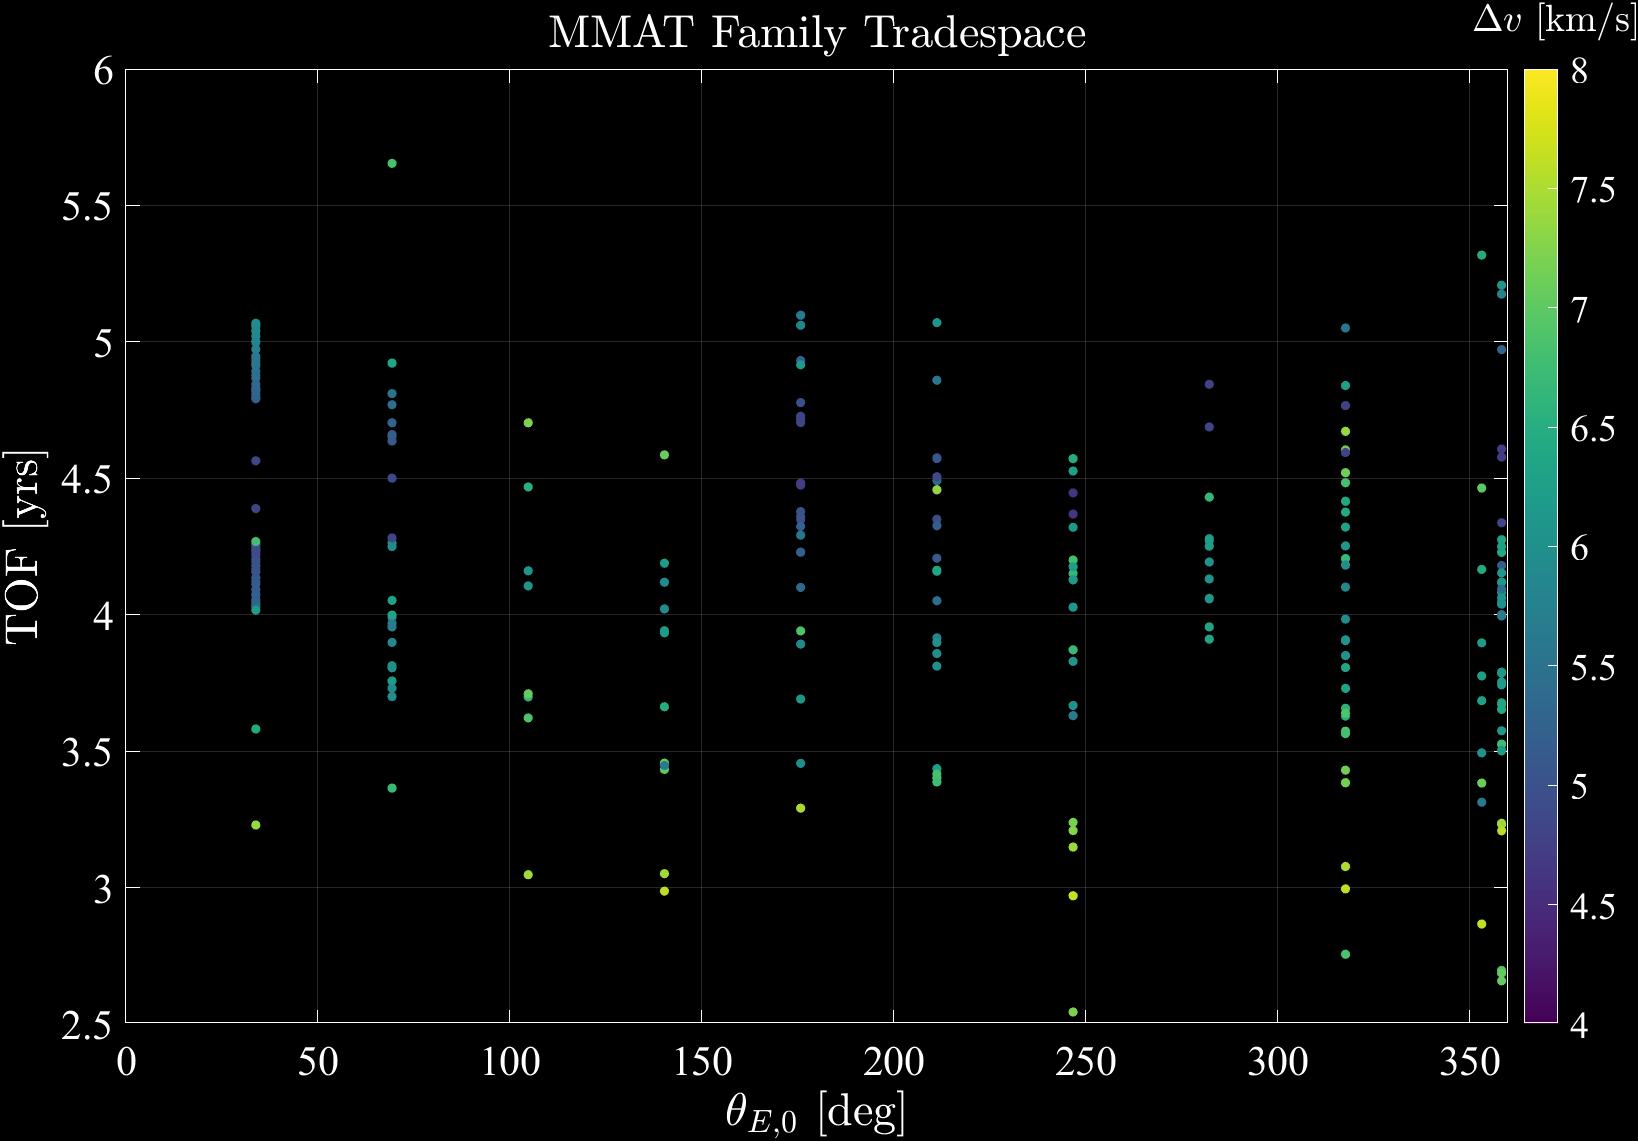
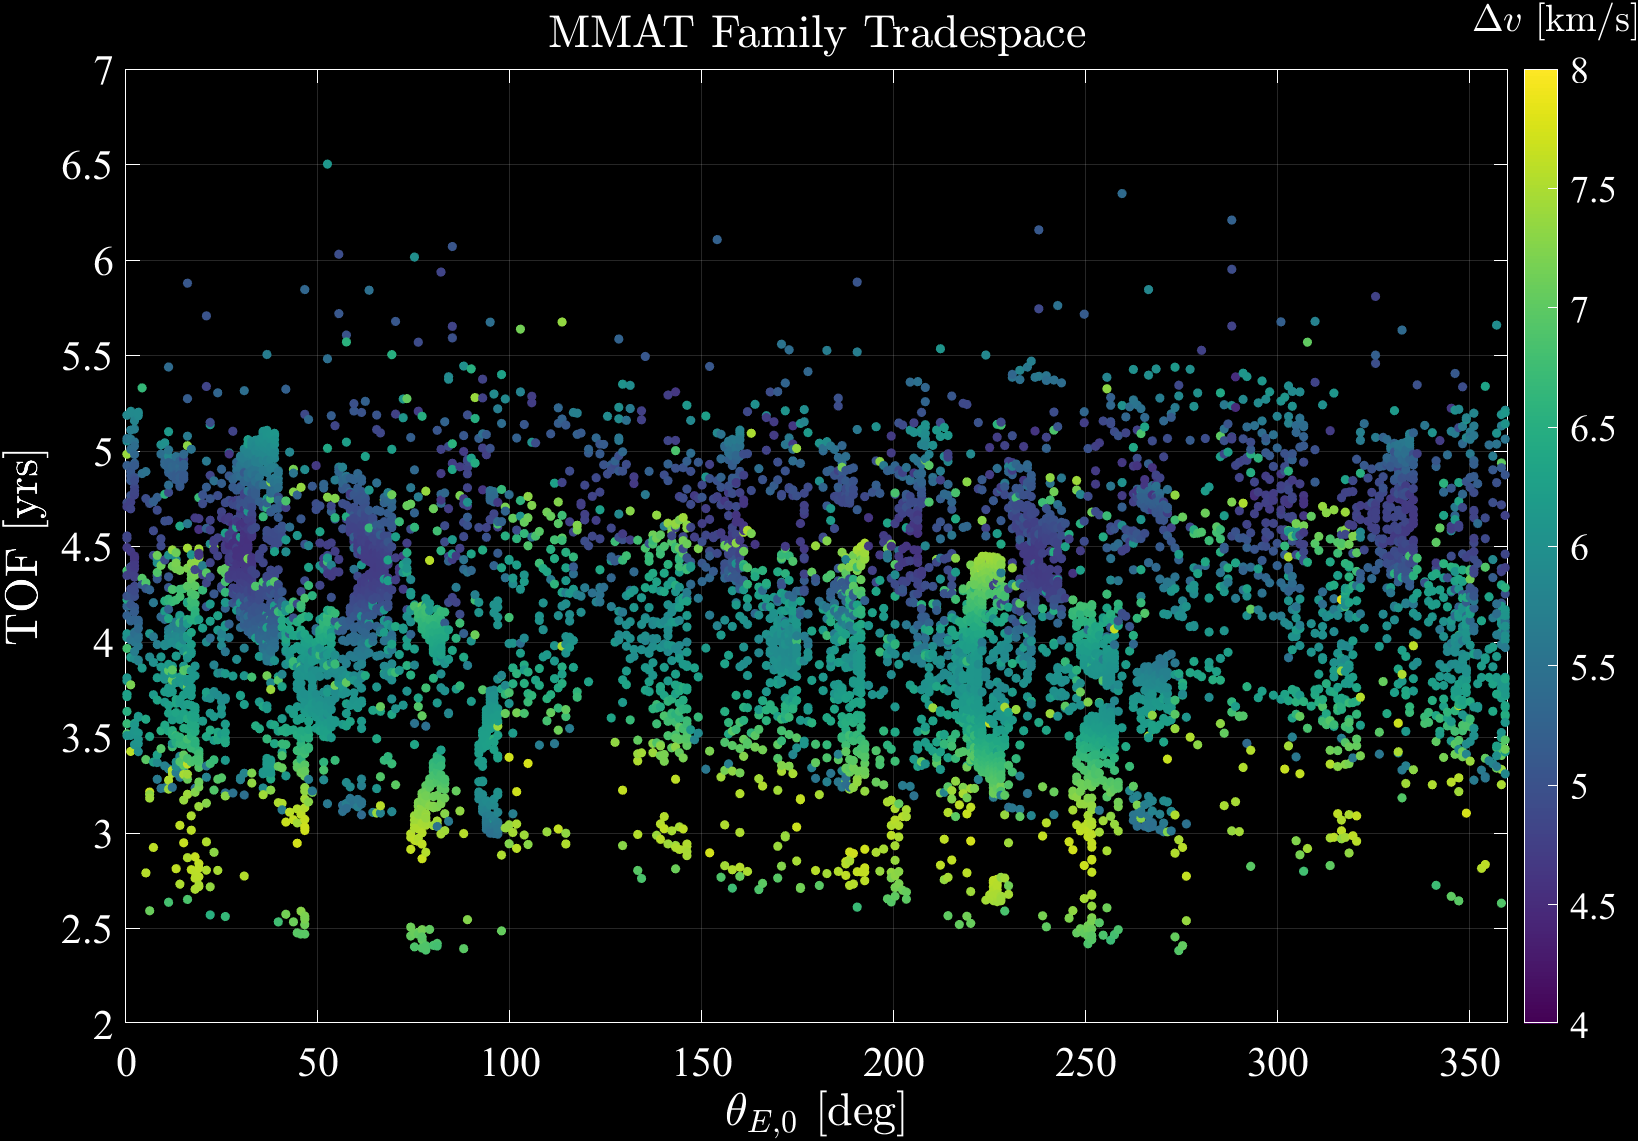
Updated Test script

diff --git a/MarsMMATCR3BP.m b/MarsMMATCR3BP.m
@@ -23,7 +23,7 @@ end
 Deltavs = Deltav_1s+Deltav_2s;
 [minDeltav, minDeltavIdx] = min(Deltavs);
 [minTOF, minTOFIdx] = min(TOFs);
-transfer = transfers(minDeltavIdx);
+transfer = transfers(minTOFIdx);
 
 %% Earth-Moon Data
 gmE = 3.9860043543609593E5; % Earth gravitational parameter [km^3/s^2]
@@ -379,6 +379,7 @@ hold off
 fig7 = figure("Position", [200 100 1200 750]);
 hold on
 scatter(TOFs/24/3600/365.25, Deltavs, 10, 'filled', 'DisplayName', "$JC_{EM}=3.03$")
+yline(5.39, 'w--', 'DisplayName', "Modified Hohmann Transfer")
 axis([2 7 4 8])
 grid on
 xlabel("TOF [yrs]", 'Interpreter', 'latex')

diff --git a/Test.m b/Test.m
@@ -1,7 +1,14 @@
-%%% Import Julia Data Test
+%%% Test.m
 %%% Jonathan LeFevre Richmond
-%%% C: 17 January 2025
+%%% U: 9 February 2026
 
 load("../PhDScripts/Output/Test.mat")
 
-plot(x, y)
+figure
+plot(r, a)
+
+figure
+plot(r, e)
+
+figure
+semilogy(ra, d)
